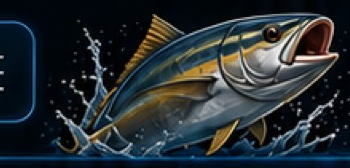
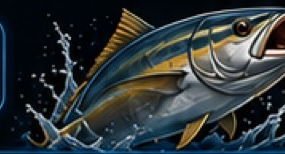
Add files via upload
Update

diff --git a/style.css b/style.css
@@ -4285,3 +4285,102 @@ body.reference-layout-v3 .technique-card .technique-rating-label,
 body.reference-layout-v3 .technique-card .technique-dot {
   display: none !important;
 }
+
+/* =========================================================
+   100% FINAL — clean fish (no baked star), header polish
+========================================================= */
+
+/* Header fish: clean assets, balanced size */
+body.reference-layout-v3 .top-header.final-master-header {
+  display: grid !important;
+  grid-template-columns: 34px minmax(0, 1fr) 72px !important;
+  gap: 4px !important;
+  align-items: center !important;
+  padding: 4px 6px !important;
+  overflow: hidden !important;
+}
+body.reference-layout-v3 .top-header .header-brand-lockup.brand-area {
+  display: grid !important;
+  grid-template-columns: 72px minmax(0, 1fr) 72px !important;
+  gap: 4px !important;
+  align-items: center !important;
+  min-width: 0 !important;
+  overflow: hidden !important;
+}
+body.reference-layout-v3 .top-header .header-fish-asset.brand-fish {
+  width: 72px !important;
+  height: 44px !important;
+  max-width: 72px !important;
+  object-fit: contain !important;
+  object-position: center !important;
+  /* prevent any overflow of baked UI */
+  overflow: hidden !important;
+}
+body.reference-layout-v3 .top-header .header-fish-left {
+  object-position: left center !important;
+}
+body.reference-layout-v3 .top-header .header-fish-right {
+  object-position: right center !important;
+}
+body.reference-layout-v3 .top-header .header-brand-title {
+  font-size: 11px !important;
+  letter-spacing: 0.04em !important;
+  white-space: nowrap !important;
+  text-align: center !important;
+}
+body.reference-layout-v3 .top-header .header-brand-title .fishing-word {
+  color: #fff !important;
+  font-size: 11px !important;
+}
+body.reference-layout-v3 .top-header .header-brand-title .dashboard-word {
+  color: #2eb5ff !important;
+  font-size: 11px !important;
+}
+body.reference-layout-v3 .top-header .location-line {
+  font-size: 7.5px !important;
+  justify-content: center !important;
+}
+/* Exactly 2 action buttons */
+body.reference-layout-v3 .top-header .header-actions {
+  display: grid !important;
+  grid-template-columns: 32px 32px !important;
+  gap: 5px !important;
+  width: 69px !important;
+}
+body.reference-layout-v3 .top-header .header-actions .header-action {
+  width: 32px !important;
+  height: 32px !important;
+}
+
+/* Hourly labels: 2 lines full text */
+body.reference-layout-v3 .weather-hour-cell strong {
+  font-size: 7px !important;
+  line-height: 1.15 !important;
+  white-space: normal !important;
+  max-height: none !important;
+  overflow: visible !important;
+  display: -webkit-box !important;
+  -webkit-line-clamp: 2 !important;
+  -webkit-box-orient: vertical !important;
+}
+body.reference-layout-v3 .weather-hour-cell > span:last-child {
+  display: block !important;
+  font-size: 8px !important;
+  color: #c5dcec !important;
+}
+
+/* Ensure activity spectrum visible */
+body.reference-layout-v3 .activity-spectrum {
+  display: flex !important;
+  height: 8px !important;
+  margin-top: 6px !important;
+  border-radius: 4px !important;
+  overflow: hidden !important;
+  position: relative !important;
+  background: #0a1520 !important;
+}
+body.reference-layout-v3 .activity-spectrum span {
+  flex: 1 1 0 !important;
+  min-width: 0 !important;
+  height: 100% !important;
+}
